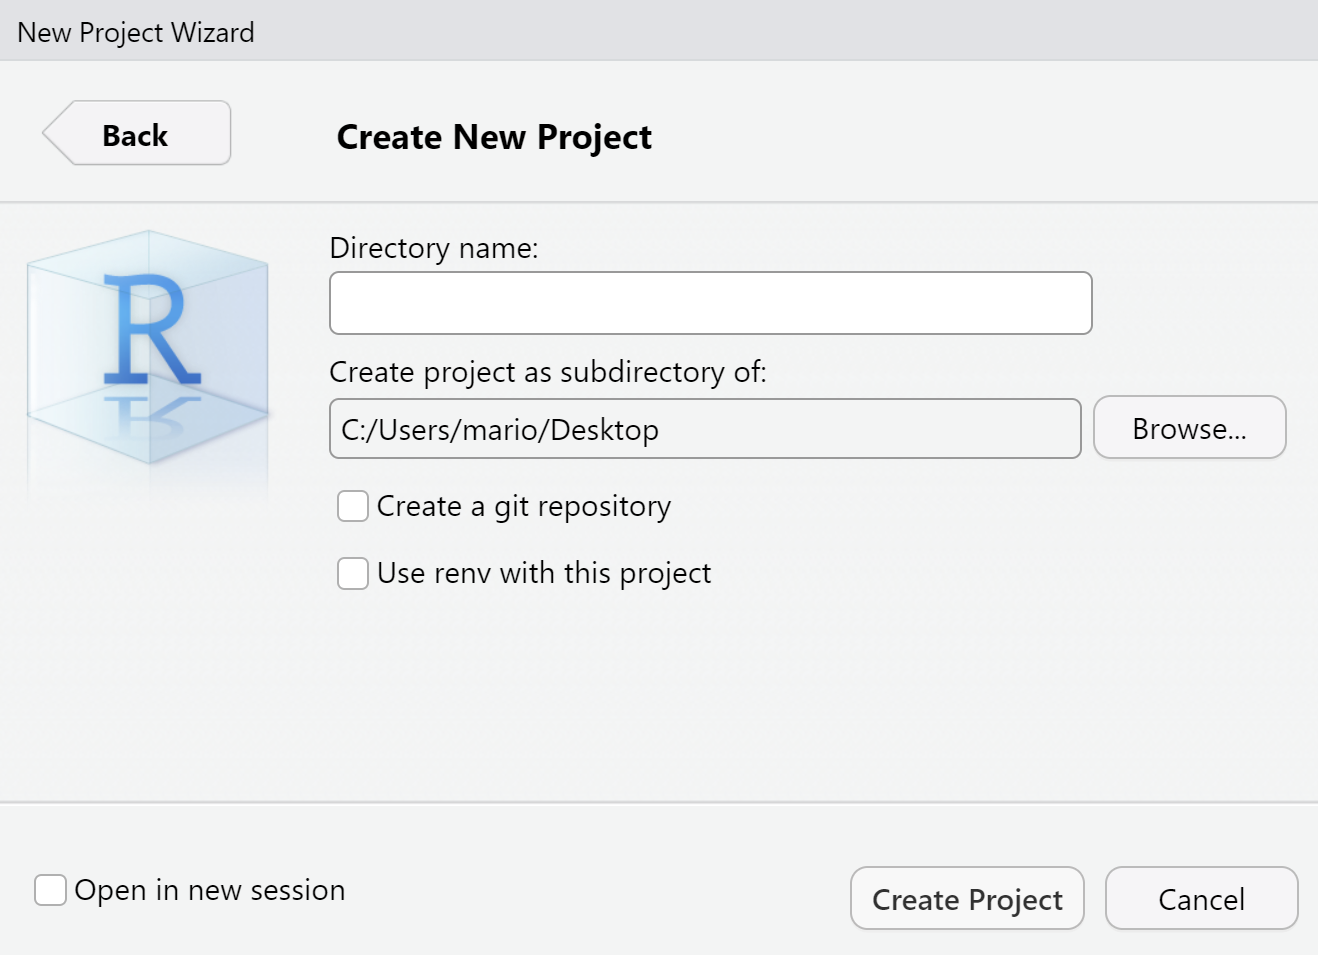
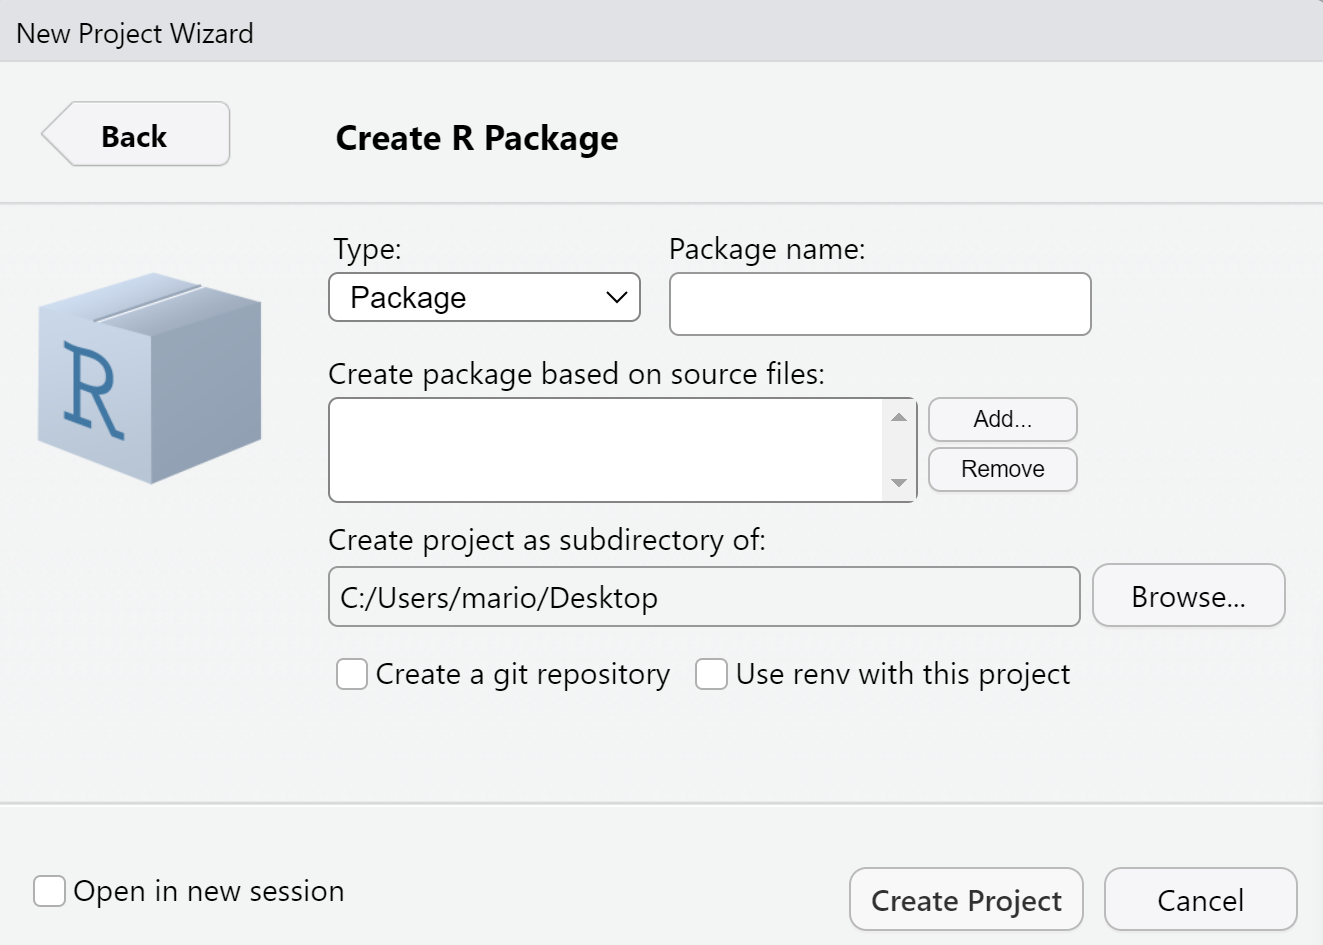
updates - 270

diff --git a/sds270/f25/labs/lab7.html b/sds270/f25/labs/lab7.html
@@ -138,6 +138,7 @@ window.Quarto = {
 
 <section id="introduction" class="level2">
 <h2 class="anchored" data-anchor-id="introduction">Introduction</h2>
+<p><span style="color:red;">Update: 9/25/25 - Modified instructions.</span></p>
 <p>In this lab, we will learn how to build an R package.</p>
 <ul>
 <li><strong>Goal:</strong> by the end of this lab, you should be able to build an R package.</li>
@@ -161,7 +162,7 @@ window.Quarto = {
 <ol type="1">
 <li>Create a new folder on your computer.</li>
 <li>Go to File <span class="math inline">\(\rightarrow\)</span> New Project.</li>
-<li>Go to New Directory <span class="math inline">\(\rightarrow\)</span> New Project.</li>
+<li>Go to New Directory <span class="math inline">\(\rightarrow\)</span> New <span style="color:red;">Package</span>.</li>
 </ol>
 <p>You should see this screen pop up: <img src="images/newproject.png" class="img-fluid"></p>
 <ol start="4" type="1">
@@ -189,6 +190,7 @@ Note
 <li>Delete the NAMESPACE file in your package.</li>
 <li>When using <code>devtools::document()</code> in the future, a <code>NAMESPACE</code> file should automatically be created.</li>
 </ul>
+<p><span style="color:red;">Additionally, it is possible you may need to install the <code>roxygen2</code> package.</span></p>
 </div>
 </div>
 <div class="callout callout-style-default callout-important callout-titled">
@@ -216,7 +218,7 @@ Note
 </div>
 </div>
 <div class="callout-body-container callout-body">
-<p>Experiment by changing some of the information about the package in the <code>DESCRIPTION</code> file, and then rebuilding the package. Do you see the changes reflected in the Package documentation? Try changing the title, description, or version number. [Do NOT change the name of the package!]</p>
+<p>Experiment by changing some of the information about the package in the <code>DESCRIPTION</code> file, and then rebuilding the package. Do you see the changes reflected in the Package documentation <span style="color:red;">in the Packages tab</span>? Try changing the title, description, or version number. [Do NOT change the name of the package!]</p>
 </div>
 </div>
 </section>
@@ -246,6 +248,7 @@ Note
 </div>
 <div class="callout-body-container callout-body">
 <p>Add the <code>print_emoji()</code> method you wrote for the S3 lab to a new file named <code>print_emoji.R</code> in the <code>R/</code> directory. Rebuild the package.</p>
+<p><span style="color:red;">Hint: Use the <code>usethis</code> library and the <code>use_r()</code> function. For the file, make sure to add in all necessary functions.</span></p>
 </div>
 </div>
 <p>Try to use your function by running (something like):</p>
@@ -299,7 +302,7 @@ Volvo 142E          21.4   4 121.0 109 4.11 2.780 18.60  1  1    4    2</code></
 </div>
 </div>
 <div class="callout-body-container callout-body">
-<p>Add the following directive to your method at the beginning of the file.</p>
+<p>Add the following directive to your method at the beginning of <span style="color:red;">each of the functions in</span> the file.</p>
 <div class="cell">
 <div class="code-copy-outer-scaffold"><div class="sourceCode cell-code" id="cb3"><pre class="sourceCode r code-with-copy"><code class="sourceCode r"><span id="cb3-1"><a href="#cb3-1" aria-hidden="true" tabindex="-1"></a><span class="co">#' @export</span></span></code></pre></div><button title="Copy to Clipboard" class="code-copy-button"><i class="bi"></i></button></div>
 </div>
@@ -317,7 +320,7 @@ Volvo 142E          21.4   4 121.0 109 4.11 2.780 18.60  1  1    4    2</code></
 </div>
 </div>
 <div class="callout-body-container callout-body">
-<p>If your method calls function from another package, add those dependencies to the Imports field in <code>DESCRIPTION</code> using <code>use_package()</code>. Rebuild the package.</p>
+<p>If your method calls functions from another package, add those dependencies to the Imports field in <code>DESCRIPTION</code> using <code>use_package()</code>. Rebuild the package.</p>
 </div>
 </div>
 <div class="callout callout-style-default callout-important callout-titled">
